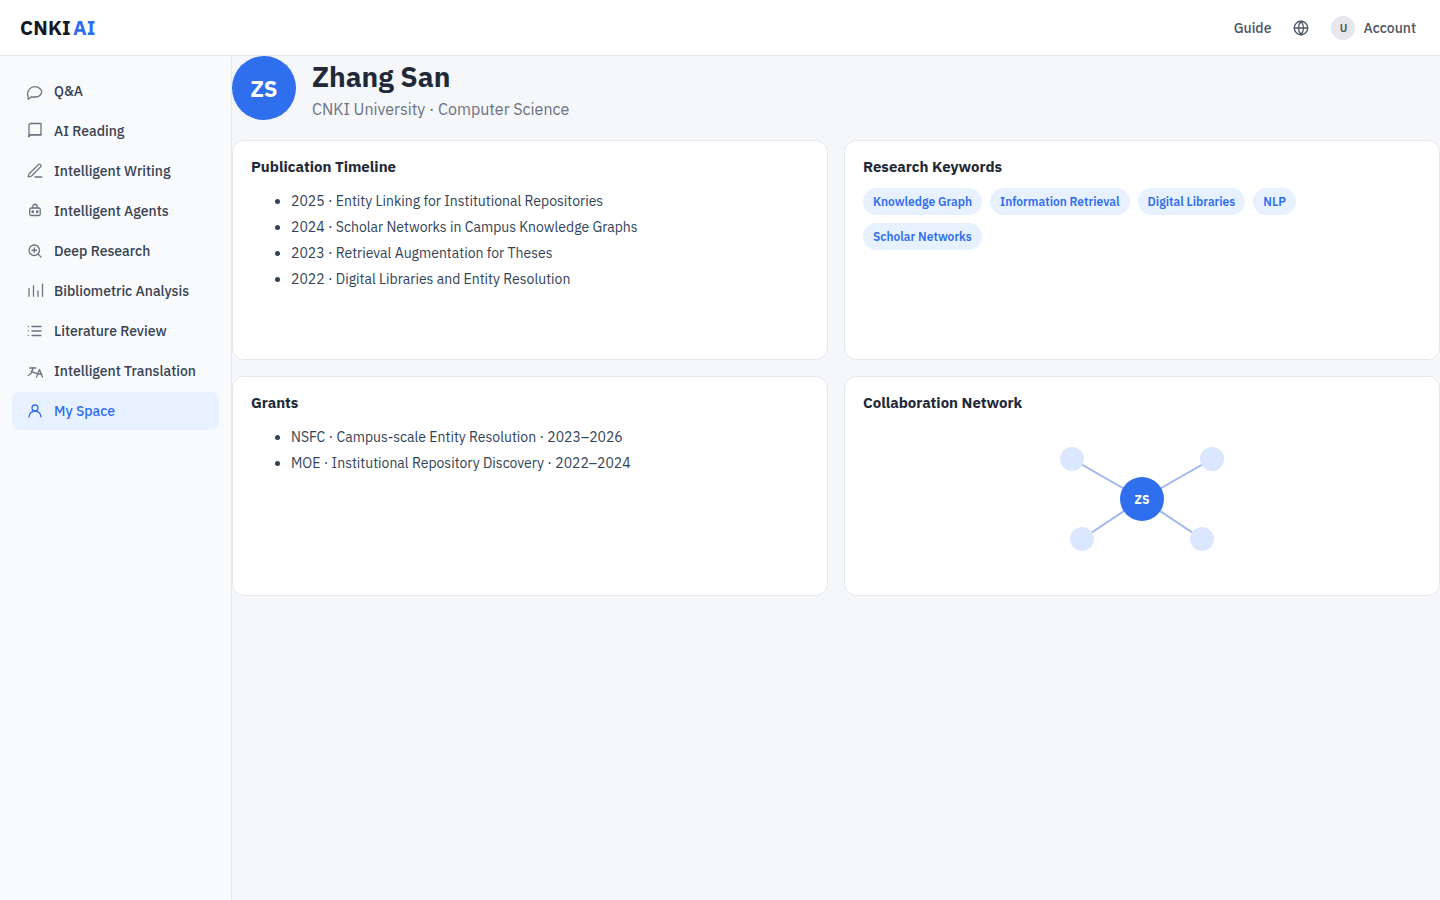
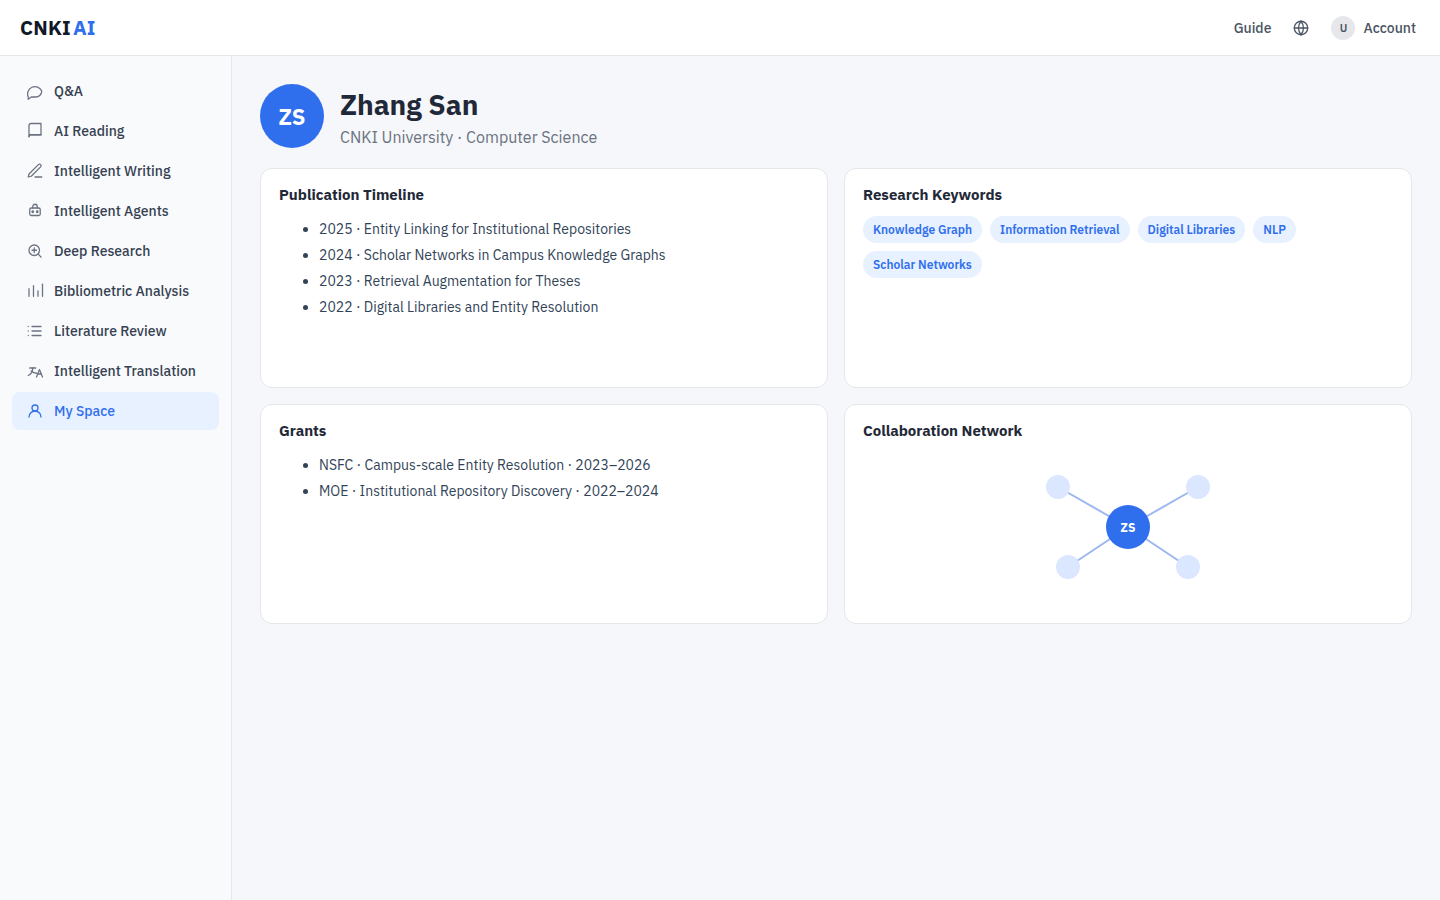
Fix screen styles so shared chrome layout stays two-column

diff --git a/prototypes/screens/req1-school-dashboard.html b/prototypes/screens/req1-school-dashboard.html
@@ -6,7 +6,7 @@
   <link href="https://fonts.googleapis.com/css2?family=IBM+Plex+Sans:wght@400;500;600;700&family=IBM+Plex+Serif:wght@600&display=swap" rel="stylesheet" />
   <link rel="stylesheet" href="../shared/chrome.css" />
   <style>
-    #screen { padding: 24px 28px 96px; }
+    .screen { padding: 24px 28px 96px; }
     .toast {
       display: inline-flex;
       align-items: center;
@@ -90,7 +90,7 @@
   </style>
 </head>
 <body data-active="qa">
-  <div id="screen" hidden>
+  <div id="screen" class="screen" hidden>
     <div class="toast">✓ Campus IP linked CNKI University automatically.</div>
     <div class="hero">
       <div>

diff --git a/prototypes/screens/req4-entity-prompt-guide.html b/prototypes/screens/req4-entity-prompt-guide.html
@@ -6,7 +6,7 @@
   <link href="https://fonts.googleapis.com/css2?family=IBM+Plex+Sans:wght@400;500;600;700&display=swap" rel="stylesheet" />
   <link rel="stylesheet" href="../shared/chrome.css" />
   <style>
-    #screen {
+    .screen {
       min-height: 100%;
       display: flex;
       flex-direction: column;
@@ -60,7 +60,7 @@
   </style>
 </head>
 <body data-active="qa">
-  <div id="screen" hidden>
+  <div id="screen" class="screen" hidden>
     <h1>Find people, labs, and collections</h1>
     <p class="sub">Type a name at CNKI University to get structured entity suggestions.</p>
     <div class="search">

diff --git a/prototypes/screens/req2-literature-settings.html b/prototypes/screens/req2-literature-settings.html
@@ -6,7 +6,7 @@
   <link href="https://fonts.googleapis.com/css2?family=IBM+Plex+Sans:wght@400;500;600;700&display=swap" rel="stylesheet" />
   <link rel="stylesheet" href="../shared/chrome.css" />
   <style>
-    #screen {
+    .screen {
       min-height: 100%;
       display: flex;
       flex-direction: column;
@@ -105,7 +105,7 @@
   </style>
 </head>
 <body data-active="qa">
-  <div id="screen" hidden>
+  <div id="screen" class="screen" hidden>
     <h1>Ask a research question</h1>
     <div class="composer">
       <textarea placeholder="Ask a research question" readonly></textarea>

diff --git a/prototypes/screens/req3-pdf-source-highlight.html b/prototypes/screens/req3-pdf-source-highlight.html
@@ -6,7 +6,7 @@
   <link href="https://fonts.googleapis.com/css2?family=IBM+Plex+Sans:wght@400;500;600;700&display=swap" rel="stylesheet" />
   <link rel="stylesheet" href="../shared/chrome.css" />
   <style>
-    #screen {
+    .screen {
       display: grid;
       grid-template-columns: 1.5fr 0.75fr;
       gap: 16px;
@@ -38,7 +38,7 @@
   </style>
 </head>
 <body data-active="reading">
-  <div id="screen" hidden>
+  <div id="screen" class="screen" hidden>
     <section class="card doc">
       <div class="doc-head">
         <h2>Exact Source · Citation [2]</h2>

diff --git a/prototypes/screens/req3-dual-column-trace.html b/prototypes/screens/req3-dual-column-trace.html
@@ -6,7 +6,7 @@
   <link href="https://fonts.googleapis.com/css2?family=IBM+Plex+Sans:wght@400;500;600;700&display=swap" rel="stylesheet" />
   <link rel="stylesheet" href="../shared/chrome.css" />
   <style>
-    #screen {
+    .screen {
       display: grid;
       grid-template-columns: 1.35fr 0.9fr;
       gap: 16px;
@@ -73,7 +73,7 @@
   </style>
 </head>
 <body data-active="qa">
-  <div id="screen" hidden>
+  <div id="screen" class="screen" hidden>
     <section class="card col answer">
       <h2>Grounded Answer</h2>
       <h3>1. Current Status</h3>

diff --git a/prototypes/screens/req1-identity-bind.html b/prototypes/screens/req1-identity-bind.html
@@ -6,7 +6,7 @@
   <link href="https://fonts.googleapis.com/css2?family=IBM+Plex+Sans:wght@400;500;600;700&display=swap" rel="stylesheet" />
   <link rel="stylesheet" href="../shared/chrome.css" />
   <style>
-    #screen {
+    .screen {
       min-height: 100%;
       display: grid;
       place-items: center;
@@ -44,7 +44,7 @@
   </style>
 </head>
 <body data-active="qa">
-  <div id="screen" hidden>
+  <div id="screen" class="screen" hidden>
     <div class="modal">
       <span class="chip">Off Campus</span>
       <h1>Link Your Institution</h1>

diff --git a/prototypes/screens/req4-scholar-portrait.html b/prototypes/screens/req4-scholar-portrait.html
@@ -6,7 +6,7 @@
   <link href="https://fonts.googleapis.com/css2?family=IBM+Plex+Sans:wght@400;500;600;700&display=swap" rel="stylesheet" />
   <link rel="stylesheet" href="../shared/chrome.css" />
   <style>
-    #screen { padding: 28px; }
+    .screen { padding: 28px; }
     .profile {
       display: flex;
       align-items: center;
@@ -44,7 +44,7 @@
   </style>
 </head>
 <body data-active="space">
-  <div id="screen" hidden>
+  <div id="screen" class="screen" hidden>
     <div class="profile">
       <div class="avatar-lg">ZS</div>
       <div>

diff --git a/prototypes/screens/req5-ai-companion-reading.html b/prototypes/screens/req5-ai-companion-reading.html
@@ -6,7 +6,7 @@
   <link href="https://fonts.googleapis.com/css2?family=IBM+Plex+Sans:wght@400;500;600;700&display=swap" rel="stylesheet" />
   <link rel="stylesheet" href="../shared/chrome.css" />
   <style>
-    #screen {
+    .screen {
       display: grid;
       grid-template-columns: 1.35fr 0.9fr;
       gap: 14px;
@@ -103,7 +103,7 @@
   </style>
 </head>
 <body data-active="reading">
-  <div id="screen" hidden>
+  <div id="screen" class="screen" hidden>
     <section class="card doc">
       <div class="doc-top">
         <span>‹</span>

diff --git a/prototypes/shared/chrome.js b/prototypes/shared/chrome.js
@@ -59,9 +59,9 @@
     main.className = "main";
     const slot = document.getElementById("screen");
     if (slot) {
-      main.appendChild(slot);
       slot.hidden = false;
-      slot.removeAttribute("id");
+      slot.classList.add("screen");
+      main.appendChild(slot);
     }
 
     app.appendChild(header);

diff --git a/prototypes/shared/chrome.css b/prototypes/shared/chrome.css
@@ -173,9 +173,17 @@ html, body {
 .main {
   grid-column: 2;
   grid-row: 2;
-  overflow: auto;
+  overflow: hidden;
   position: relative;
   background: var(--bg);
+  min-height: 0;
+}
+
+.main > #screen,
+.main > [data-screen],
+.main > div:first-child {
+  height: 100%;
+  min-height: 0;
 }
 
 .btn {
